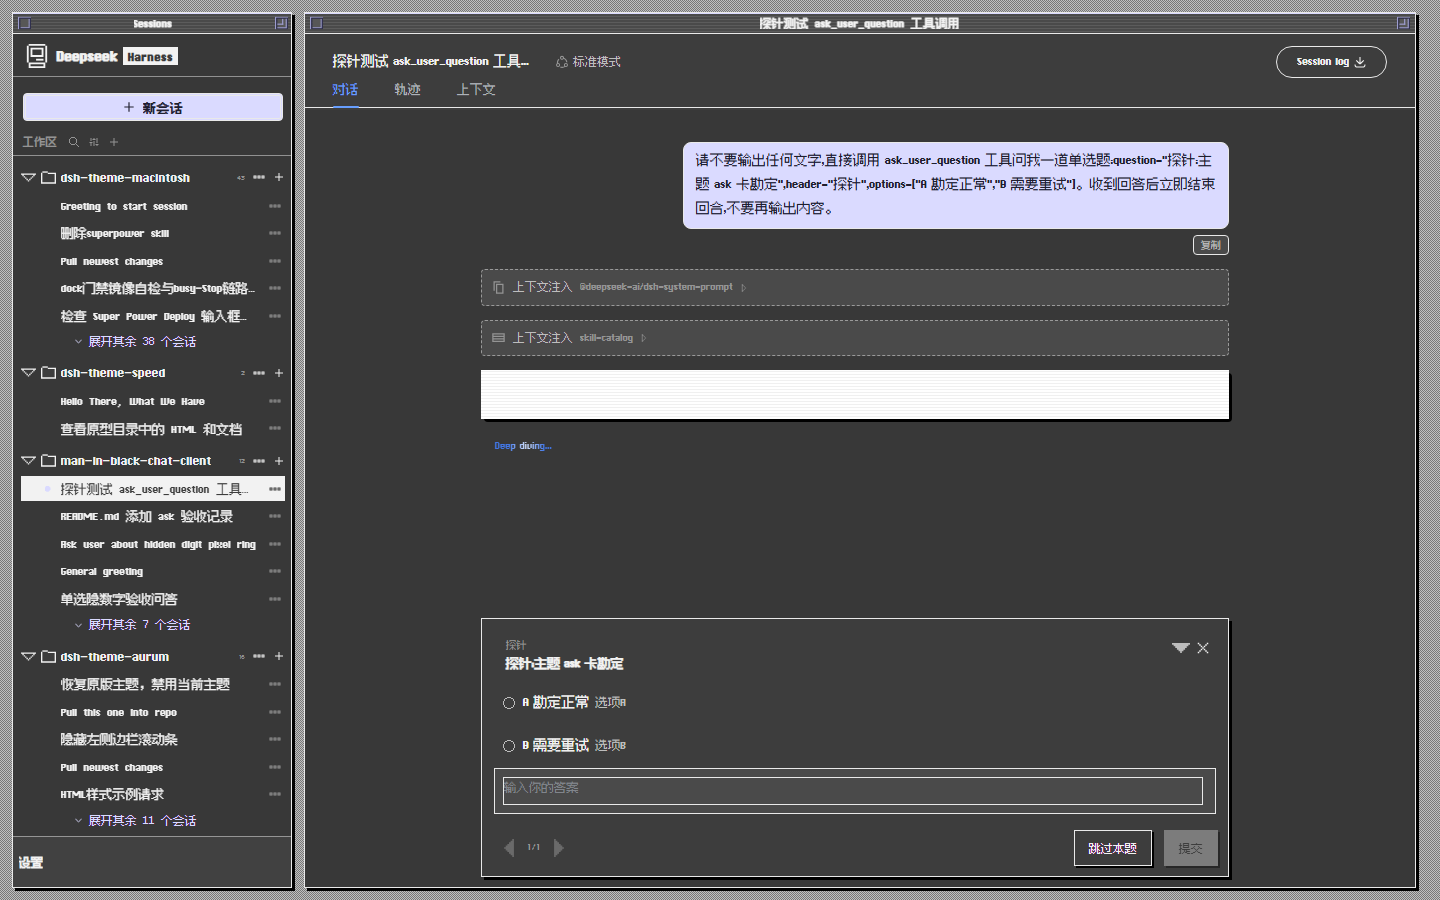
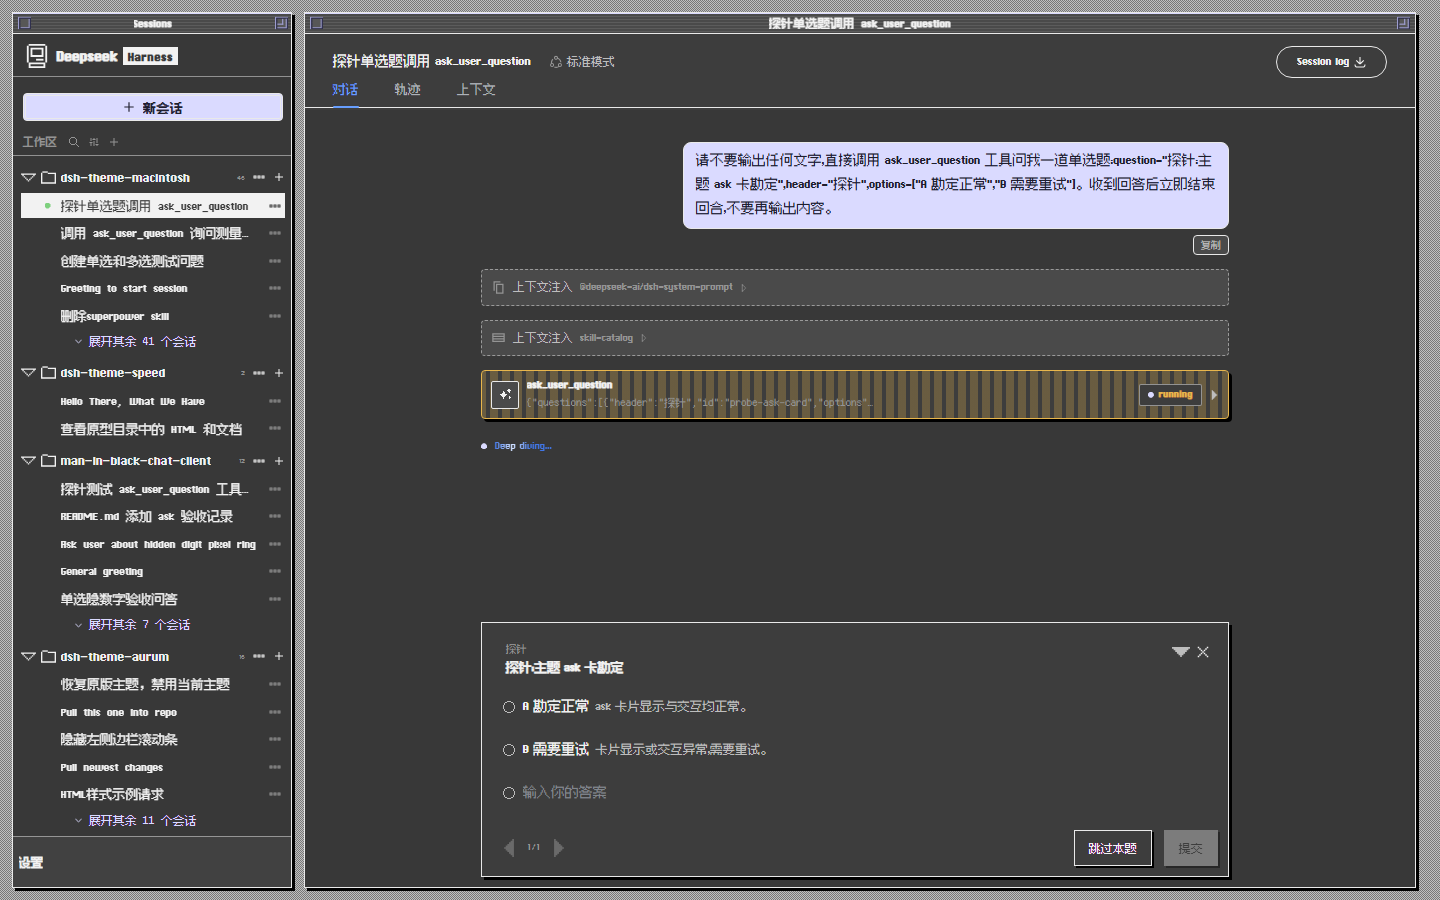
fix(mc-ask): 验收轮2——自定义行选项化(环/勾统 12px)+线框退役;field 键撤
用户裁定:自定义回答行=选项之一,不是表单件——线框/surface-2 场全退役(field 域零规则,
官方 field>* font:inherit 自足;askField 键撤=无死键纪律)。
单选形态:::before 像素环占位(:not(:has(checkbox)) 区分单/多——多选行内已有官方空 span 勾,
源码 Mbwy4a_customRow>span.Mbwy4a_checkbox 空盒全靠 ::before 画框,diag5 实勘),激活态
customRowActive 换实心环;多选勾统 12px 方框,选中 checkboxChecked 整底 chk-on。
map 新键 askChkChecked/askCustomOn(DRIFT-RISK 类锚,源码 clsx 实证)。
几何实测(diag5):勾框与 optionLabel 中心完全同心(24px 行高 vs 12px 框 margin-top:6px)——
「错位」观感真身=自定义行官方 20px 大框列线参差,统 12px 后齐。
verify-ask 28 断言 ALL GREEN(增 D14 自定义行环/D15 线框退役);npm test 78+audit 全绿。

diff --git a/src/conv/ask.js b/src/conv/ask.js
@@ -84,11 +84,19 @@ function mcAskCss(M) {
   L.push(M.askCard + ' ' + M.askOpts + ' ' + M.askBadge + '{border:1px solid var(--mc-border)!important;background:none!important;'
     + 'font:400 10px var(--font-ui)!important;color:var(--mc-muted)!important;padding:1px 4px!important}');
   L.push(M.askCard + ' ' + M.askDetail + '{font:400 12.5px/1.7 var(--font-ui)!important;color:var(--mc-muted)!important}');
-  // 自定义回答行/自由输入场:1px 边框 + surface-2 底;textarea/input 透明底 12.5px/1.7
-  L.push(M.askCard + ' ' + M.askCustomRow + ',' + M.askCard + ' ' + M.askField
-    + '{border:1px solid var(--mc-border)!important;background:var(--mc-surface-2)!important}');
-  L.push(M.askCard + ' ' + M.askField + ' textarea,' + M.askCard + ' ' + M.askField + ' input'
-    + '{background:transparent!important;border:none!important;font:400 12.5px/1.7 var(--font-ui)!important;color:var(--mc-fg)!important}');
+  // —— 自定义回答行 = 选项之一(用户裁定 2026-09-03 验收轮2:线框退役,不像表单件像选项)——
+  // 单选形态(行内无勾 span,:has 区分):::before 像素环占位,激活(customRowActive)换实心环;
+  // 多选形态:行内官方空 span 勾(源码 Mbwy4a_checkbox 空盒,全靠 ::before 画框)统成 12px 方框,
+  // 选中(checkboxChecked)整底 i-chk-on。field 域零规则=官方透明 inline 场(线框/表面底全退役)。
+  L.push(M.askCard + ' ' + M.askCustomRow + ':not(:has(' + M.askCheckbox + '))::before{content:\'\';flex:0 0 12px;width:12px;height:12px;'
+    + 'margin-top:6px;box-sizing:border-box;background:currentColor;-webkit-mask:' + mRdo + ';mask:' + mRdo + ';color:var(--mc-muted)}');
+  L.push(M.askCard + ' ' + M.askCustomRow + M.askCustomOn + ':not(:has(' + M.askCheckbox + '))::before{color:var(--mc-fg);'
+    + '-webkit-mask:' + mRdoOn + ';mask:' + mRdoOn + '}');
+  L.push(M.askCard + ' ' + M.askCustomRow + ' ' + M.askCheckbox + '{flex:0 0 12px;width:12px;height:12px;'
+    + 'margin-top:6px;box-sizing:border-box;border:1px solid currentColor;background:none;color:var(--mc-muted);padding:0}');
+  L.push(M.askCard + ' ' + M.askCustomRow + ' ' + M.askCheckbox + '::before{content:none!important}');
+  L.push(M.askCard + ' ' + M.askCustomRow + ' ' + M.askCheckbox + M.askChkChecked + '{border:none;background:currentColor;color:var(--mc-fg);'
+    + '-webkit-mask:' + mChkOn + ';mask:' + mChkOn + '}');
   // —— 页脚:progress 页码 faint / feedback 错误 danger / 翻页钮 18×18 caretright mask(prev scaleX(-1),disabled .35)——
   L.push(M.askCard + ' ' + M.askProgress + '{font:400 11px var(--font-ui)!important;color:var(--mc-faint)!important}');
   L.push(M.askCard + ' ' + M.askFeedback + '{font:400 11px var(--font-ui)!important;color:var(--mc-danger)!important}');

diff --git a/src/chrome/map.js b/src/chrome/map.js
@@ -255,8 +255,9 @@ const MC_MAP = {
   askCheckbox:  '[class*="checkbox"]',    // DRIFT-RISK(多选方框 span;官方勾 svg 藏)
   askBadge:     '[class*="badge"]',       // DRIFT-RISK(推荐徽标)
   askDetail:    ':is([class*="detail"], [class*="description"])', // DRIFT-RISK(题干补充 Mbwy4a_detail+选项行描述 Mbwy4a_description;:is() 复合中段纪律)
-  askCustomRow: '[class*="customRow"]',   // DRIFT-RISK(自定义回答行)
-  askField:     '[class*="field"]',       // DRIFT-RISK(自由输入场)
+  askCustomRow: '[class*="customRow"]',   // DRIFT-RISK(自定义回答行;field 域撤键 2026-09-03:官方 field>* font:inherit 自足+透明 inline 场,线框退役后零消费者记因)
+  askChkChecked: '[class*="checkboxChecked"]', // DRIFT-RISK(勾选中态 span 本体类;源码 clsx(checkbox, selected&&checkboxChecked),选项行与自定义行勾同款)
+  askCustomOn:  '[class*="customRowActive"]',  // DRIFT-RISK(自定义行激活态;draft.custom!=="" 时挂)
   askProgress:  '[class*="progress"]',    // DRIFT-RISK(「1 / 1」页码;实形 Mbwy4a_progress,DIAG 实证)
   askFeedback:  '[class*="feedback"]',    // DRIFT-RISK(错误行;另有 role=status 冗余锚可用)
   btnOutline:   '[class*="_outline_"]',   // primitives Button(哈希构建 kz6gm,双侧下划线形态=源码 CSS-module 命名 _outline_kz6gm_56,与 Mbwy4a 族异构——此族交接档形态正确;dlgClose/uV2eYG 记因同源)

diff --git a/src/kit.js b/src/kit.js
@@ -53,7 +53,7 @@ const McKit = {
   border:1px solid var(--mc-muted);background:none}
 .kit-ask-opt.on .kit-ask-chk{border:none;background:currentColor;color:var(--mc-surface);
   -webkit-mask:${MC_KIT_ASK_MASK.chkOn};mask:${MC_KIT_ASK_MASK.chkOn}}
-.kit-ask-field{border:1px solid var(--mc-border);background:var(--mc-surface-2);padding:6px 8px}
+.kit-ask-field{flex:1;min-width:0;padding:2px 0}
 .kit-ask-field textarea{display:block;width:100%;box-sizing:border-box;border:none;background:transparent;resize:none;
   font:400 12.5px/1.7 var(--font-ui);color:var(--mc-fg)}
 .kit-ask-foot{display:flex;align-items:center;gap:8px}
